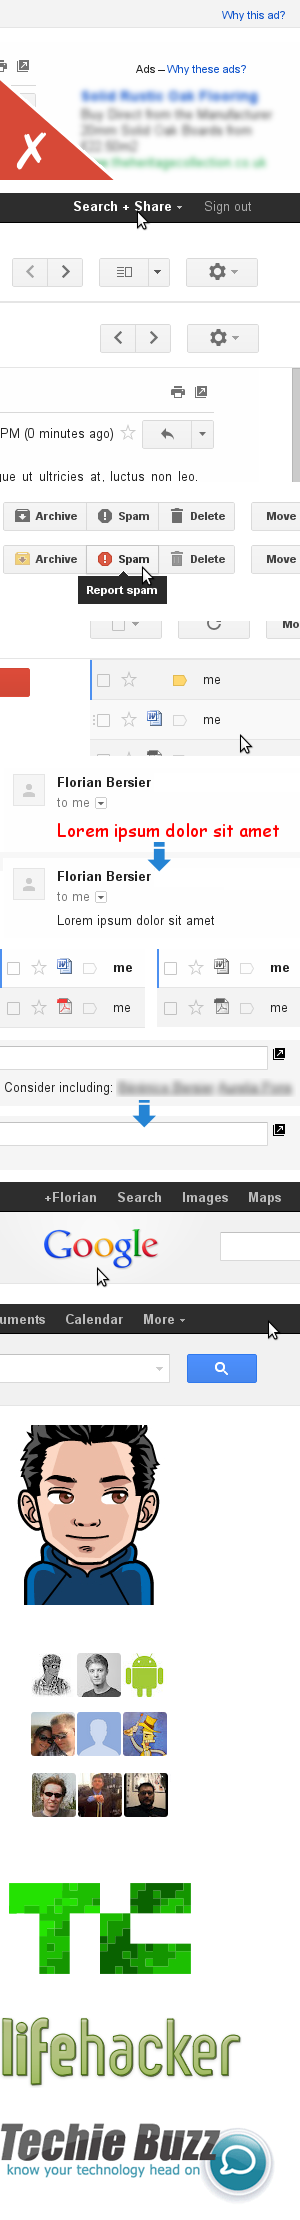
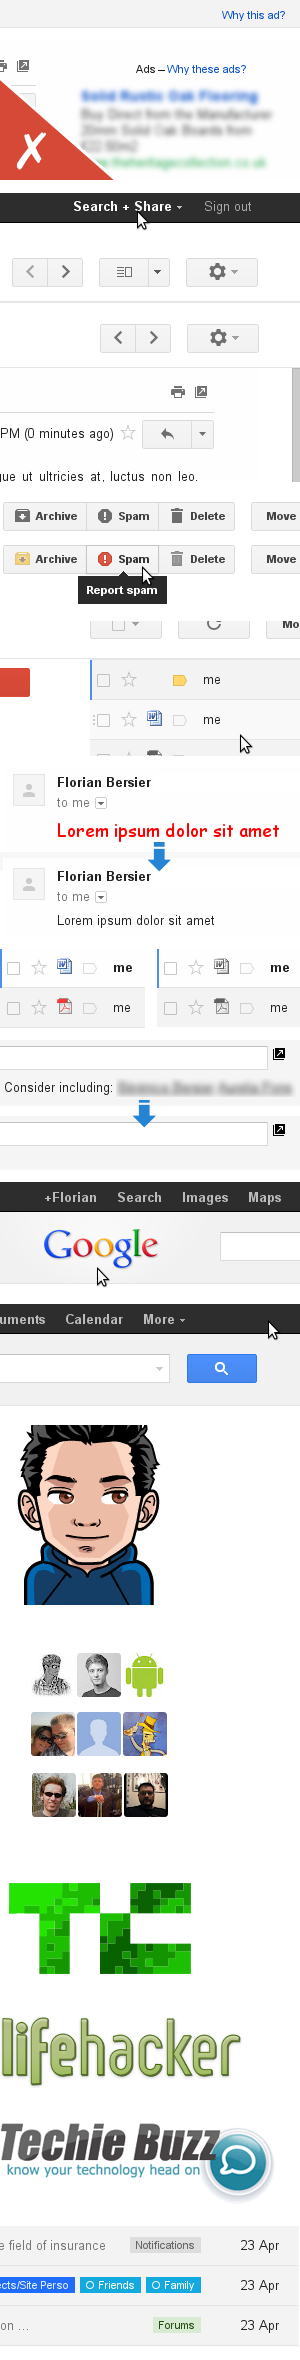
modified:   IMG/global.png 	modified:   css/a.css 	modified:   index.html 	modified:   js/global.js

diff --git a/css/a.css b/css/a.css
@@ -1,1 +1,1 @@
[2 lines of base64/hex data omitted]

diff --git a/js/global.js b/js/global.js
@@ -1,1 +1,1 @@
-$(document).ready(function(){$("#top,#share-box").hide();$("#emh").append('<n uers="znvygb:vasb@tzryvhf.pbz" ery="absbyybj">Pbagnpg</n>'.replace(/[a-zA-Z]/g,function(r){return String.fromCharCode((r<="Z"?90:122)>=(r=r.charCodeAt(0)+13)?r:r-26)}));var p={init:function(){this.browser=this.searchString(this.dataBrowser)||"An unknown browser";this.version=this.searchVersion(navigator.userAgent)||this.searchVersion(navigator.appVersion)||"an unknown version";this.OS=this.searchString(this.dataOS)||"an unknown OS"},searchString:function(u){for(var r=0;r<u.length;r++){var s=u[r].string;var t=u[r].prop;this.versionSearchString=u[r].versionSearch||u[r].identity;if(s){if(s.indexOf(u[r].subString)!=-1){return u[r].identity}}else{if(t){return u[r].identity}}}},searchVersion:function(s){var r=s.indexOf(this.versionSearchString);if(r==-1){return}return parseFloat(s.substring(r+this.versionSearchString.length+1))},dataBrowser:[{string:navigator.userAgent,subString:"Chrome",identity:"Chrome"},{string:navigator.userAgent,subString:"OmniWeb",versionSearch:"OmniWeb/",identity:"OmniWeb"},{string:navigator.vendor,subString:"Apple",identity:"Safari",versionSearch:"Version"},{prop:window.opera,identity:"Opera"},{string:navigator.vendor,subString:"iCab",identity:"iCab"},{string:navigator.vendor,subString:"KDE",identity:"Konqueror"},{string:navigator.userAgent,subString:"Firefox",identity:"Firefox"},{string:navigator.vendor,subString:"Camino",identity:"Camino"},{string:navigator.userAgent,subString:"Netscape",identity:"Netscape"},{string:navigator.userAgent,subString:"MSIE",identity:"Explorer",versionSearch:"MSIE"},{string:navigator.userAgent,subString:"Gecko",identity:"Mozilla",versionSearch:"rv"},{string:navigator.userAgent,subString:"Mozilla",identity:"Netscape",versionSearch:"Mozilla"}],dataOS:[{string:navigator.platform,subString:"Win",identity:"Windows"},{string:navigator.platform,subString:"Mac",identity:"Mac"},{string:navigator.userAgent,subString:"iPhone",identity:"iPhone/iPod"},{string:navigator.platform,subString:"Linux",identity:"Linux"}]};p.init();var h=p.OS;var j=p.browser;var k=j.toLowerCase();var m=p.version;var i,l,b,q,o,g,c;if(j==="Chrome"){l="Compatibility: from Chrome 18";b="#get-it";if(m<"18"){g==true;o="http://support.google.com/chrome/bin/answer.py?hl=en&answer=95414";c='<span class="icon">=</span>You should <a href="'+o+'" target="_blank">update Google '+j+"</a> before installing Gmelius&trade; since we cannot guarantee it to work with your current version ("+m+").";$("#update-me").css("display","block").append(c)}$("#download").click(function(){chrome.webstore.install()})}else{if(j==="Firefox"){l="Compatibility : Firefox 10-14";b="https://addons.mozilla.org/firefox/downloads/file/149523/gmeliustm_ad_remover_and_better_ui_for_gmail-5.1-fx.xpi";if(m<"10"){g==true;o="http://www.mozilla.org/firefox/";c='<span class="icon">=</span>You need to <a href="'+o+'" target="_blank">update '+j+"</a> before installing Gmelius&trade;.";$("#update-me").css("display","block").append(c)}}else{if(j==="Opera"){l="Compatibility : from Opera 11";b="https://addons.opera.com/extensions/download/gmelius-no-ads-and-better-ui-for-gmail/";if(m<"9"){g==true;o="http://www.opera.com/";c='<span class="icon">=</span>You need to <a href="'+o+'" target="_blank">update '+j+"</a> before installing Gmelius&trade;.";$("#update-me").css("display","block").append(c)}}else{if(j==="Safari"){l="Not available yet";b=""}else{if(j==="Explorer"){l="Not available yet";b=""}else{l="Nothing found for your browser";b=""}}}}}q="http://support.gmelius.com/"+k;$("#logob").addClass(k);$("#browser").append(j);$("#comp").append(l);$("#download-link").attr("href",b);$("#support,#support-foot").attr("href",q);(function(v,r){var u,s=v.getElementsByTagName(r)[0],t=function(w,x){if(v.getElementById(x)){return}u=v.createElement(r);u.src=w;x&&(u.id=x);s.parentNode.insertBefore(u,s)};t("https://apis.google.com/js/plusone.js");t("//connect.facebook.net/en_US/all.js#xfbml=1&appId=234524816574248","facebook-jssdk");t("//platform.twitter.com/widgets.js","twitter-wjs")}(document,"script"));var n='<ul><li class="go"><div class="g-plusone" data-size="medium" data-href="http://gmelius.com"></div><li class="fb"><div class="fb-like" data-href="https://www.facebook.com/adremover" data-send="false" data-layout="button_count" data-width="80" data-show-faces="false"></div><li class="tw"><a href="https://twitter.com/share" class="twitter-share-button" data-url="http://gmelius.com">Tweet</a></ul>';$("#share,#share-box").append(n);$("#hover").hover(function(){$("#share-box").fadeIn("slow")});$("body").click(function(){$("#share-box").fadeOut("slow")});$(window).scroll(function(){if($(this).scrollTop()>100){$("#top").fadeIn()}else{$("#top").fadeOut()}});function f(r){return r.replace(/^\//,"").replace(/(index|default).[a-zA-Z]{3,4}$/,"").replace(/\/$/,"")}var a=f(location.pathname);var e=d("html","body");$("a[href*=#]").each(function(){var s=f(this.pathname)||a;if(a==s&&(location.hostname==this.hostname||!this.hostname)&&this.hash.replace(/#/,"")){var r=$(this.hash),t=this.hash;if(t){var u=r.offset().top;$(this).click(function(v){$("#nav a").removeClass("selected");v.preventDefault();$(this).addClass("selected");$(e).animate({scrollTop:u},400,function(){location.hash=t})})}}});function d(u){for(var t=0,w=arguments.length;t<w;t++){var v=arguments[t],r=$(v);if(r.scrollTop()>0){return v}else{r.scrollTop(1);var s=r.scrollTop()>0;r.scrollTop(0);if(s){return v}}}return[]}});
+$(document).ready(function(){$("#top,#share-box").hide();$("#emh").append('<n uers="znvygb:vasb@tzryvhf.pbz" ery="absbyybj">Pbagnpg</n>'.replace(/[a-zA-Z]/g,function(r){return String.fromCharCode((r<="Z"?90:122)>=(r=r.charCodeAt(0)+13)?r:r-26)}));var p={init:function(){this.browser=this.searchString(this.dataBrowser)||"An unknown browser";this.version=this.searchVersion(navigator.userAgent)||this.searchVersion(navigator.appVersion)||"an unknown version";this.OS=this.searchString(this.dataOS)||"an unknown OS"},searchString:function(u){for(var r=0;r<u.length;r++){var s=u[r].string;var t=u[r].prop;this.versionSearchString=u[r].versionSearch||u[r].identity;if(s){if(s.indexOf(u[r].subString)!=-1){return u[r].identity}}else{if(t){return u[r].identity}}}},searchVersion:function(s){var r=s.indexOf(this.versionSearchString);if(r==-1){return}return parseFloat(s.substring(r+this.versionSearchString.length+1))},dataBrowser:[{string:navigator.userAgent,subString:"Chrome",identity:"Chrome"},{string:navigator.userAgent,subString:"OmniWeb",versionSearch:"OmniWeb/",identity:"OmniWeb"},{string:navigator.vendor,subString:"Apple",identity:"Safari",versionSearch:"Version"},{prop:window.opera,identity:"Opera"},{string:navigator.vendor,subString:"iCab",identity:"iCab"},{string:navigator.vendor,subString:"KDE",identity:"Konqueror"},{string:navigator.userAgent,subString:"Firefox",identity:"Firefox"},{string:navigator.vendor,subString:"Camino",identity:"Camino"},{string:navigator.userAgent,subString:"Netscape",identity:"Netscape"},{string:navigator.userAgent,subString:"MSIE",identity:"Explorer",versionSearch:"MSIE"},{string:navigator.userAgent,subString:"Gecko",identity:"Mozilla",versionSearch:"rv"},{string:navigator.userAgent,subString:"Mozilla",identity:"Netscape",versionSearch:"Mozilla"}],dataOS:[{string:navigator.platform,subString:"Win",identity:"Windows"},{string:navigator.platform,subString:"Mac",identity:"Mac"},{string:navigator.userAgent,subString:"iPhone",identity:"iPhone/iPod"},{string:navigator.platform,subString:"Linux",identity:"Linux"}]};p.init();var h=p.OS;var j=p.browser;var k=j.toLowerCase();var m=p.version;var i,l,b,q,o,g,c;if(j==="Chrome"){l="Compatibility: from Chrome 18";b="#get-it";if(m<"18"){g==true;o="http://support.google.com/chrome/bin/answer.py?hl=en&answer=95414";c='<span class="icon">=</span>You should <a href="'+o+'" target="_blank">update Chrome/Chromium</a> before installing Gmelius&trade; since we cannot guarantee it to work with your current version ('+m+").";$("#update-me").css("display","block").append(c)}$("#download").click(function(){chrome.webstore.install()})}else{if(j==="Firefox"){l="Compatibility : Firefox 10-14";b="https://addons.mozilla.org/firefox/downloads/file/149523/gmeliustm_ad_remover_and_better_ui_for_gmail-5.1-fx.xpi";if(m<"10"){g==true;o="http://www.mozilla.org/firefox/";c='<span class="icon">=</span>You need to <a href="'+o+'" target="_blank">update '+j+"</a> before installing Gmelius&trade;.";$("#update-me").css("display","block").append(c)}}else{if(j==="Opera"){l="Compatibility : from Opera 11";b="https://addons.opera.com/extensions/download/gmelius-no-ads-and-better-ui-for-gmail/";if(m<"9"){g==true;o="http://www.opera.com/";c='<span class="icon">=</span>You need to <a href="'+o+'" target="_blank">update '+j+"</a> before installing Gmelius&trade;.";$("#update-me").css("display","block").append(c)}}else{if(j==="Safari"){l="Not available yet";b=""}else{if(j==="Explorer"){l="Not available yet";b=""}else{l="Nothing found for your browser";b=""}}}}}q="http://support.gmelius.com/"+k;$("#logob").addClass(k);$("#browser").append(j);$("#comp").append(l);$("#download-link").attr("href",b);$("#support,#support-foot").attr("href",q);(function(v,r){var u,s=v.getElementsByTagName(r)[0],t=function(w,x){if(v.getElementById(x)){return}u=v.createElement(r);u.src=w;x&&(u.id=x);s.parentNode.insertBefore(u,s)};t("https://apis.google.com/js/plusone.js");t("//connect.facebook.net/en_US/all.js#xfbml=1&appId=234524816574248","facebook-jssdk");t("//platform.twitter.com/widgets.js","twitter-wjs")}(document,"script"));var n='<ul><li class="go"><div class="g-plusone" data-size="medium" data-href="http://gmelius.com"></div><li class="fb"><div class="fb-like" data-href="https://www.facebook.com/adremover" data-send="false" data-layout="button_count" data-width="105" data-show-faces="false"></div><li class="tw"><a href="https://twitter.com/share" class="twitter-share-button" data-url="http://gmelius.com">Tweet</a></ul>';$("#share,#share-box").append(n);$("#hover").hover(function(){$("#share-box").fadeIn("slow")});$("body").click(function(){$("#share-box").fadeOut("slow")});$(window).scroll(function(){if($(this).scrollTop()>100){$("#top").fadeIn()}else{$("#top").fadeOut()}});function f(r){return r.replace(/^\//,"").replace(/(index|default).[a-zA-Z]{3,4}$/,"").replace(/\/$/,"")}var a=f(location.pathname);var e=d("html","body");$("a[href*=#]").each(function(){var s=f(this.pathname)||a;if(a==s&&(location.hostname==this.hostname||!this.hostname)&&this.hash.replace(/#/,"")){var r=$(this.hash),t=this.hash;if(t){var u=r.offset().top;$(this).click(function(v){$("#nav a").removeClass("selected");v.preventDefault();$(this).addClass("selected");$(e).animate({scrollTop:u},400,function(){location.hash=t})})}}});function d(u){for(var t=0,w=arguments.length;t<w;t++){var v=arguments[t],r=$(v);if(r.scrollTop()>0){return v}else{r.scrollTop(1);var s=r.scrollTop()>0;r.scrollTop(0);if(s){return v}}}return[]}});

diff --git a/index.html b/index.html
@@ -188,7 +188,6 @@
 <div class="thumb" id="logo-click"></div>
 </section>
 
-
 <section>
 <h3>Auto-Scroll to the top of your inbox à la Google+</h3>
 <div class="thumb" id="backto"></div>
@@ -196,8 +195,14 @@
 </section>
 
 <section>
+<h3>Move emails labels from the left to the right of your inbox</h3>
+<div class="desc">In Gmail, labels are placed at the very left of emails subjects. This has for main consequence to decrease the visibility of the content of your emails. Gmelius gives you the possibility to move labels from the left to the right of your inbox, making then easier to read the subject of your emails at first glance.</div>
+<div class="thumb" id="labels-inbox"></div>
+</section>
+
+<section>
 <h3>Regain some space in your inbox</h3>
-<div class="desc desc0">The new Gmail is great but can sometimes look a bit cluttered. Gmelius gives you the possibility to regain some space and to clean your inbox by removing diverse elements such as chat statuses of your contacts, chat and footer.</div>
+<div class="desc desc0">The new Gmail is great but can sometimes look a bit cluttered. Gmelius gives you the possibility to regain some space and to clean your inbox by removing diverse elements such as chat statuses, chat and footer.</div>
 </section>
 
 </div><!--#features-->
